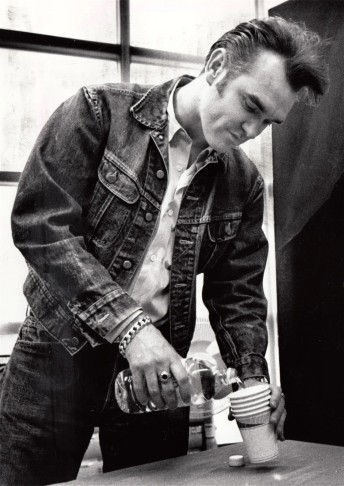
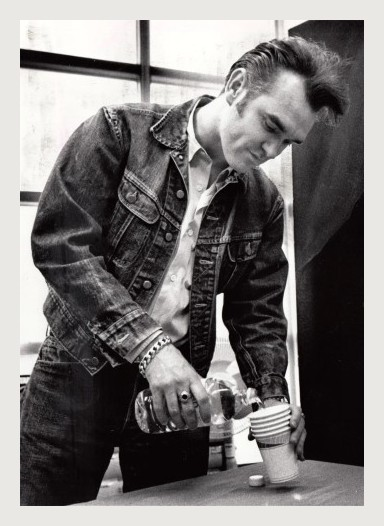
Added more quotes and images

diff --git a/data.js b/data.js
@@ -73,12 +73,12 @@ export const quotes = [
 	},
 	{
 		lineOne: `And if a double-decker bus crashes into us,`,
-		lineTwo: `To die by your side, is such a heavenly way to die!`,
+		lineTwo: `To die by your side, is such a heavenly way to die.`,
 		artist: `The Smiths`
 	},
 	{
 		lineOne: `Sweetness, I was only joking when I said`,
-		lineTwo: `I'd like to smash every tooth in you head!`,
+		lineTwo: `I'd like to smash every tooth in you head.`,
 		artist: `The Smiths`
 	},
 	{
@@ -133,7 +133,7 @@ export const quotes = [
 	},
 	{
 		lineOne: `If you ever need self validation,`,
-		lineTwo: `Just meet me in the alley by the railway station`,
+		lineTwo: `Meet me in the alley by the railway station`,
 		artist: `The Smiths`
 	},
 	{
@@ -172,8 +172,8 @@ export const quotes = [
 		artist: `Morrissey`
 	},
 	{
-		lineOne: `<span style="font-size: 0.8em;">I never wanted to kill, I am not naturally evil!</span>`,
-		lineTwo: `<span style="font-size: 0.8em";>Such things I do, Just to make myself more attractive to you,<br><em>Have I failed?</em></span`,
+		lineOne: `<span style="font-size: 0.85em;">I never wanted to kill, I am not naturally evil!</span>`,
+		lineTwo: `<span style="font-size: 0.78em";>Such things I do, Just to make myself more attractive to you!</span`,
 		artist: `The Smiths`
 	},
 	{
@@ -182,8 +182,8 @@ export const quotes = [
 		artist: `The Smiths`
 	},
 	{
-		lineOne: `Please, Valentine,`,
-		lineTwo: `Let me get my hands on your mammary glands`,
+		lineOne: `Let me get my hands`,
+		lineTwo: `on your mammary glands`,
 		artist: `The Smiths`
 	},
 	{
@@ -197,40 +197,88 @@ export const quotes = [
 		artist: `The Smiths`
 	},
 	{
-		lineOne: `<span style="font-size:0.85em;">There's more to life than books, you know (but not much more)</span>`,
-		lineTwo: `<span style="font-size:1.3em;">Oh, you handsome devil!</span>`,
+		lineOne: `<span style="font-size: 0.9em">There's more to life than books, you know...</span`,
+		lineTwo: `Like <em>me</em>, Valentine!</span>`,
 		artist: `The Smiths`
 	},
+	// {
+	// 	lineOne: `I want the one I can't have`,
+	// 	lineTwo: `And it's driving me mad!`,
+	// 	artist: `The Smiths`
+	// },
+	// {
+	// 	lineOne: `<span style="font-size:0.85em;">On the day when your mentality catches up with your biology,`,
+	// 	lineTwo: `<span style="font-size:1.2em;">Come 'round!</span>`,
+	// 	artist: `The Smiths`
+	// },
+	// {
+	// 	lineOne: `Do you love me like you used to,`,
+	// 	lineTwo: `Valentine?`,
+	// 	artist: `The Smiths`
+	// },
+	// {
+	// 	lineOne: `The hills were alive with celibate cries`,
+	// 	lineTwo: `Until you came along.`,
+	// 	artist: `The Smiths`
+	// },
+	// {
+	// 	lineOne: `We may be hidden by rags`,
+	// 	lineTwo: `But we've something they'll never have.`,
+	// 	artist: `The Smiths`
+	// },
+	// {
+	// 	lineOne: `When you cycled by`,
+	// 	lineTwo: `Here began all my dreams.`,
+	// 	artist: `The Smiths`,
+	// 	songTitle: `Back to the Old House`
+	// },
 	{
-		lineOne: `I want the one I can't have`,
-		lineTwo: `And it's driving me mad!`,
-		artist: `The Smiths`
-	},
-	{
-		lineOne: `<span style="font-size:0.9em;">On the day when your mentality catches up with your biology,`,
-		lineTwo: `<span style="font-size:1.2em;">Come 'round!</span>`,
-		artist: `The Smiths`
-	},
-	{
-		lineOne: `Do you love me like you used to,`,
-		lineTwo: `Valentine?`,
-		artist: `The Smiths`
-	},
-	{
-		lineOne: `The hills were alive with celibate cries`,
-		lineTwo: `Until you came along.`,
-		artist: `The Smiths`
-	},
-	{
-		lineOne: `We may be hidden by rags`,
-		lineTwo: `But we've something they'll never have.`,
-		artist: `The Smiths`
-	},
-	{
-		lineOne: `When you cycled by`,
-		lineTwo: `Here began all my dreams.`,
+		lineOne: `I'm in love for the first time`,
+		lineTwo: `and I don't feel bad`,
 		artist: `The Smiths`,
-		songTitle: `Back to the Old House`
+		songTitle: `Break up the Family`
+	},
+	{
+		lineOne: `Give in to lust!<br/>Give up to lust!`,
+		lineTwo: `Heaven knows we'll soon be dust!`,
+		artist: `The Smiths`,
+		songTitle: `Pretty Girls Make Graves`
+	},
+	{
+		lineOne: `You are all that matters,`,
+		lineTwo: `And I'll love you till the day I die.`,
+		artist: `The Smiths`,
+		songTitle: `The Hand That Rocks the Cradle`
+	},
+	{
+		lineOne: `Does the body rule the mind,`,
+		lineTwo: `Or does the mind rule the body?`,
+		artist: `The Smiths`,
+		songTitle: `Still Ill`
+	},
+	{
+		lineOne: `I look at yours, you laugh at mine,`,
+		lineTwo: `And love is just a miserable lie.`,
+		artist: `The Smiths`,
+		songTitle: `Miserable Lie`
+	},
+	{
+		lineOne: `<span style="font-size: 1.3em">Valentine,</span>`,
+		lineTwo: `I'd like to sieze your underwear,`,
+		artist: `The Smiths`,
+		songTitle: `Miserable Lie`
+	},
+	{
+		lineOne: `<span style="font-size: 0.9em">Please, please, please, let me get what I want.</span>`,
+		lineTwo: `(What I want is <em>you</em>, Valentine.)`,
+		artist: `The Smiths`,
+		songTitle: `Please, Please, Please, Let Me Get What I Want`
+	},
+	{
+		lineOne: `<em>Oh, Christ,</em>`,
+		lineTwo: `Another Stifled Valentine's Day night.`,
+		artist: `The Smiths`,
+		songTitle: `Maladjusted`
 	},
 ]
 

diff --git a/style.css b/style.css
@@ -217,7 +217,7 @@ button:active {
 }
 
 p.valentine-words {
-	font-size: clamp(0.9rem, -0.2rem + 7.5vw, 1.8rem);
+	font-size: clamp(0.9rem, 0.1rem + 5.6vw, 1.45rem);
 	color: var(--light-plum);
 	font-weight: 900;
 	text-align: center;
@@ -225,23 +225,22 @@ p.valentine-words {
 	position: absolute;
 	left: 50%;
 	transform: translate(-50%);
-	width: 100%;
-	text-shadow: 0 0 5px black;
+	width: 99%;
+	text-shadow: 0.5px 0.5px 5px black;
 	letter-spacing: -0.3px;
 	line-height: 1.17;
 	text-transform: uppercase;
 	padding: 0 0.32rem;
 	backdrop-filter: blur(1px);
+	margin-block: 0.5em;
 }
 
 p.valentine-words.top {
 	top: 0;
-	margin-top: 0.45em;
 }
 
 p.valentine-words.bottom {
 	bottom: 0;
-	margin-bottom: 0.45em;
 }
 
 /* ================================================= */
@@ -285,6 +284,10 @@ p.valentine-words.bottom {
 	.subheading {
 		font-size: clamp(0.7rem, 0.2rem + 2.4vw, 1.5rem);
 		margin-top: .125em;
+	}
+
+	#valentine-container {
+		max-width: 450px;
 	}
 
 	p.valentine-words {

diff --git a/index.js b/index.js
@@ -22,12 +22,13 @@ function generateValentine() {
 }
 
 function getRandomQuote() {
-	let indexToGet = Math.floor(Math.random(0, quotes.length) * quotes.length)
+	let indexToGet = Math.floor(Math.random() * quotes.length)
 	return quotes[indexToGet]
 }
 
 function getRandomImage() {
-	let number = Math.floor(Math.random(0, 9) * 9)
+	let number = Math.floor(Math.random() * 11)
+	console.log(`number is ${number}`)
 	return `images/all/image${number}.jpg`
 }
 
